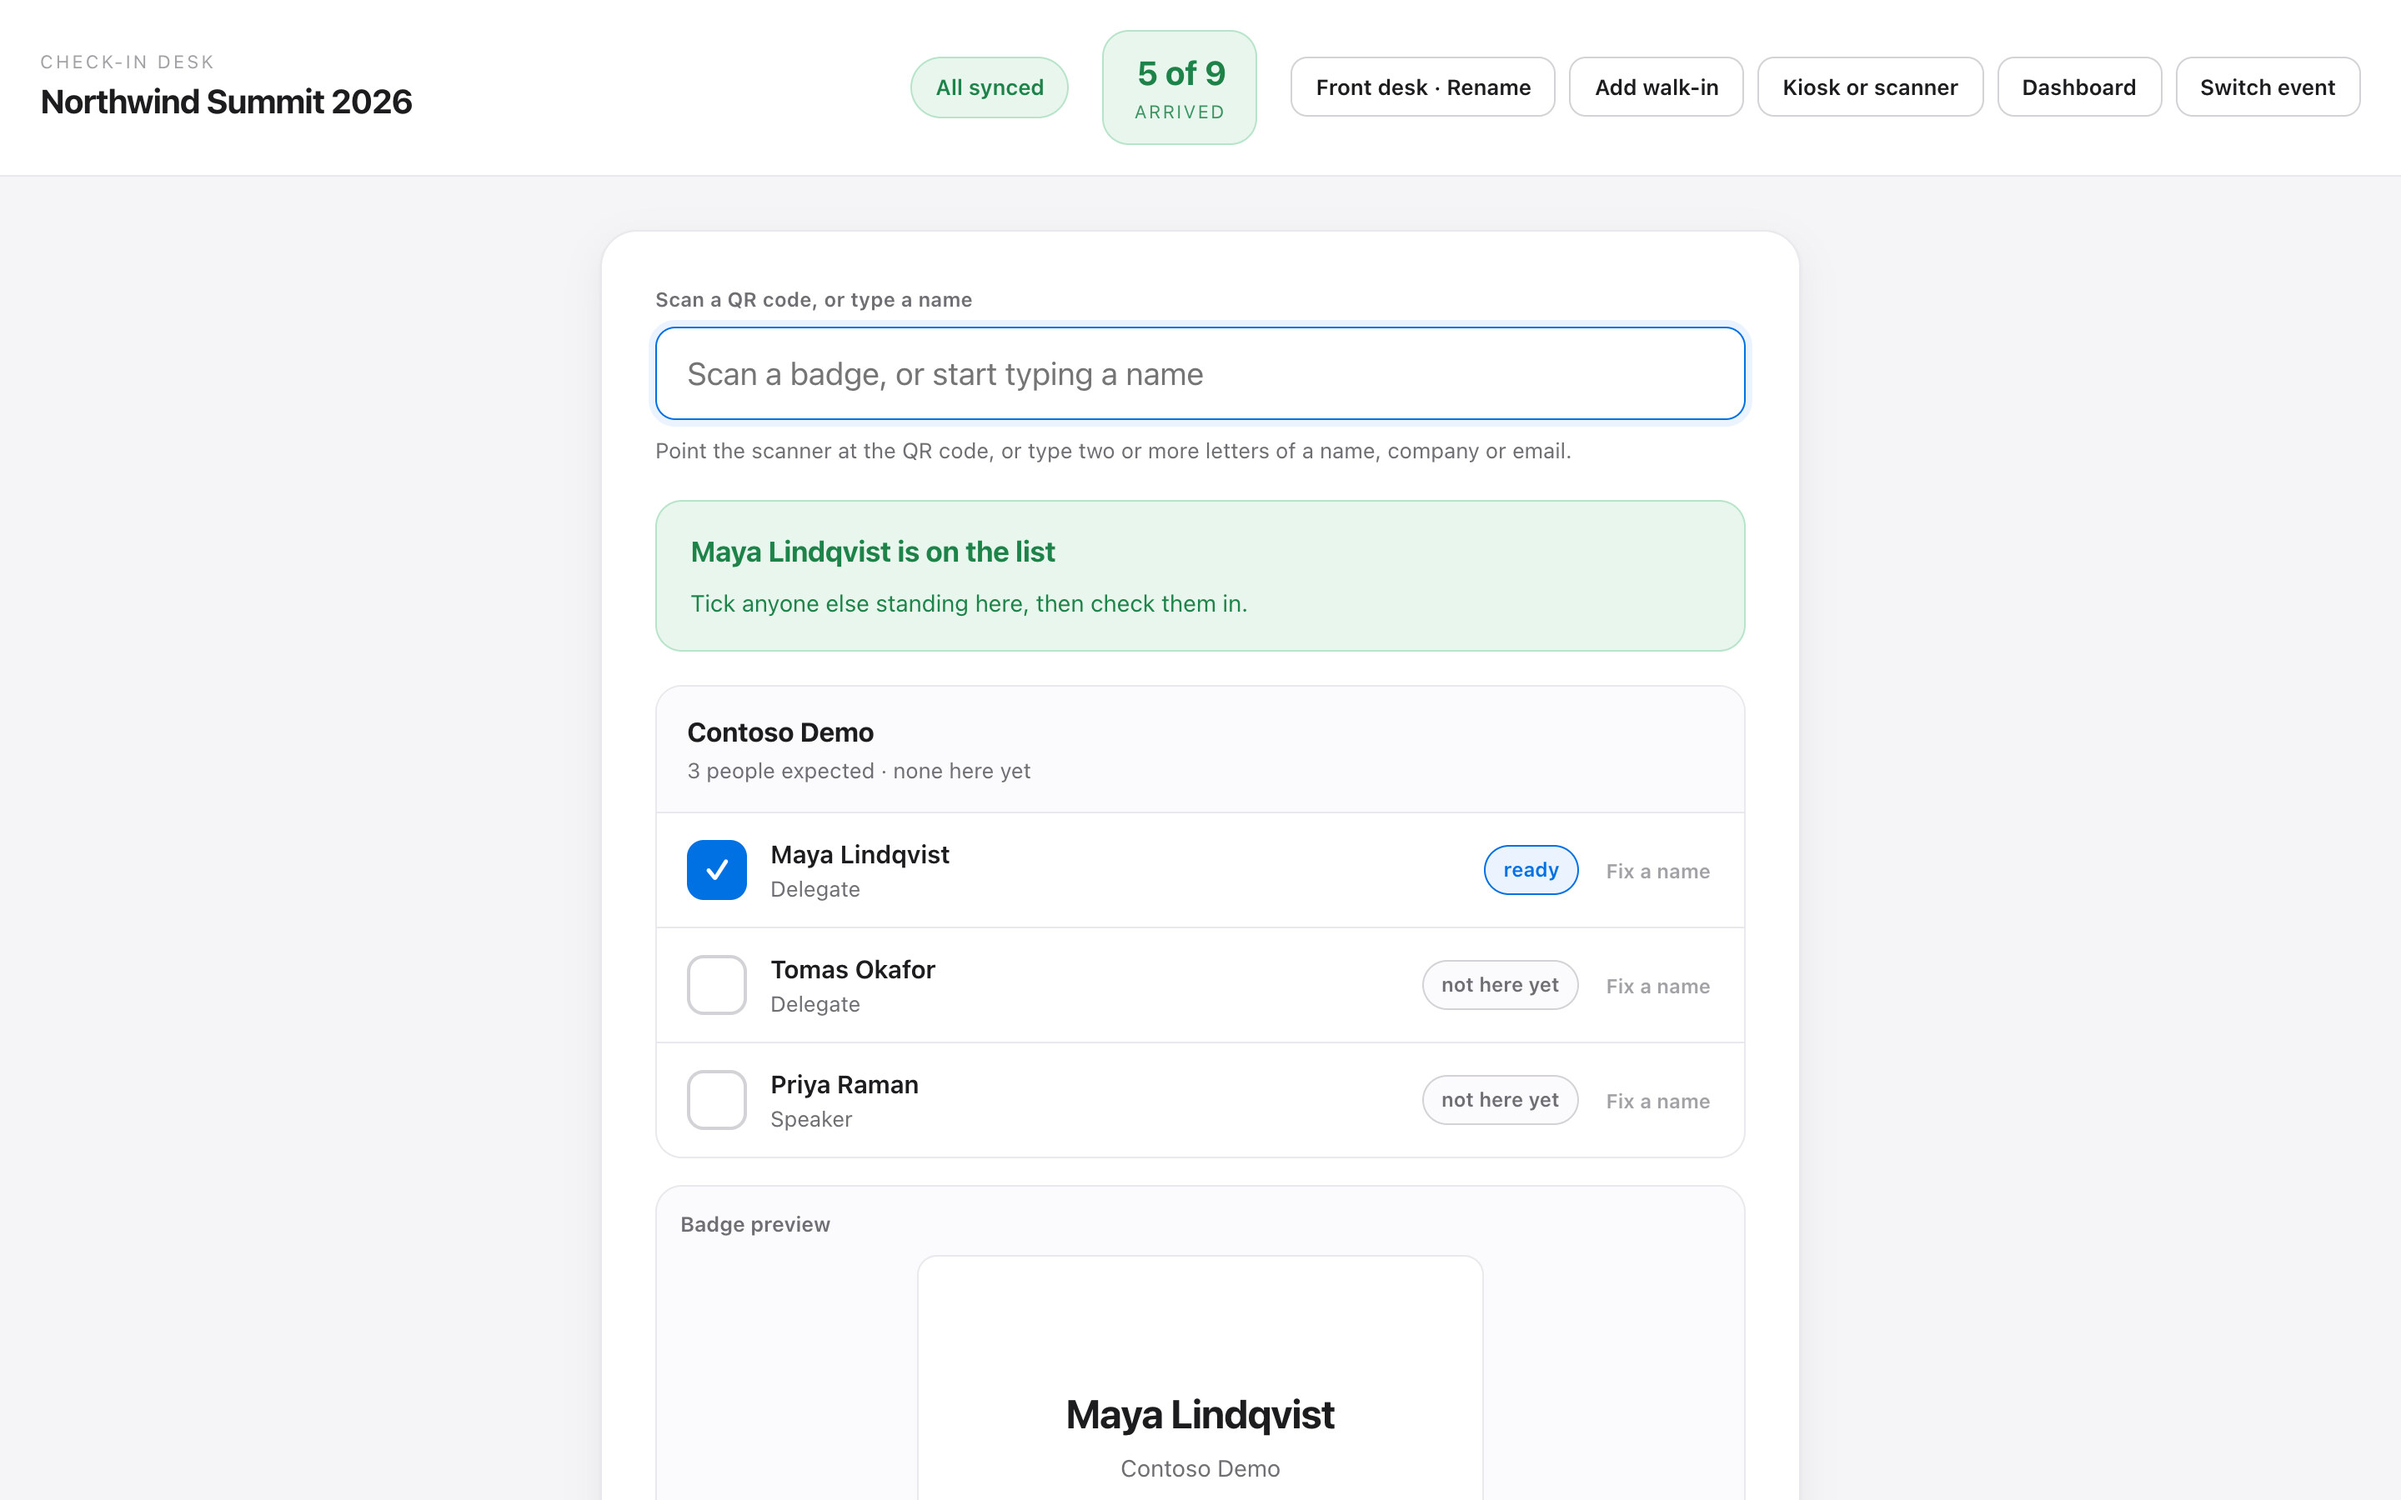
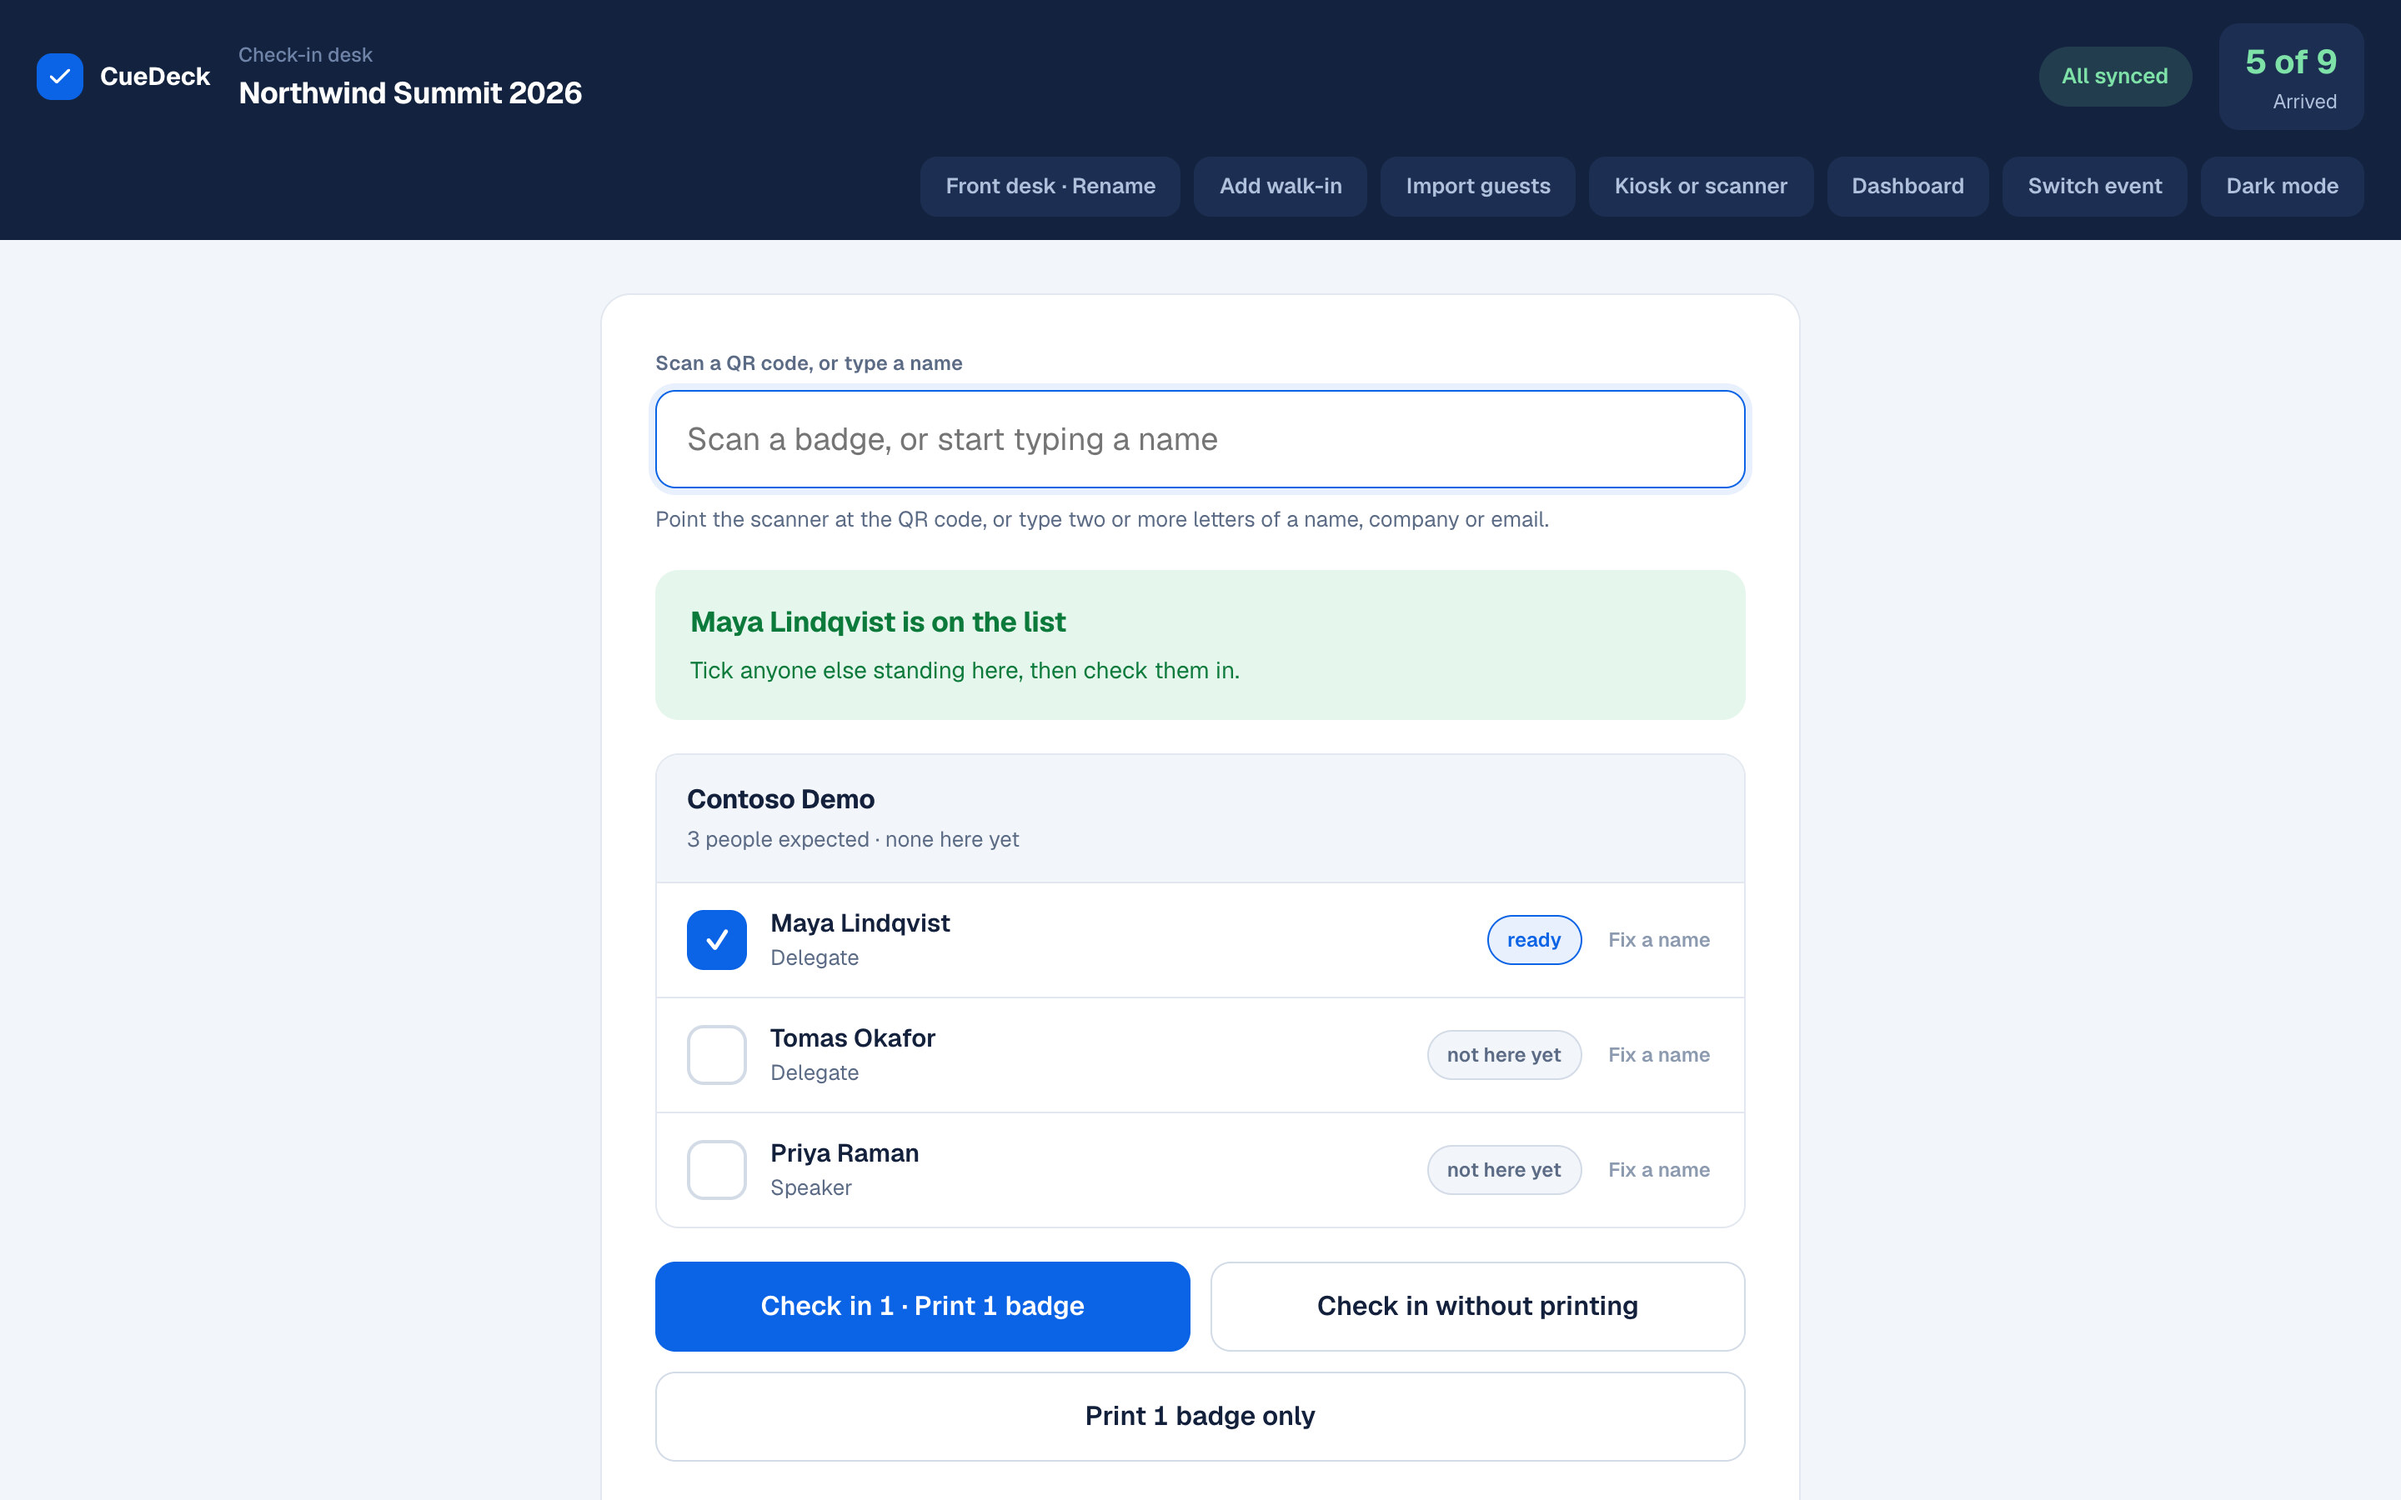
Check-in screenshots and launch cover from the redesigned app
Desk, dashboard, guest list and report retaken from the new design (fictional
Northwind Summit data, 2x, JPEG q88 4:4:4). The dashboard shot now runs to the
end of the company board, so its height is 1652 and its labels moved. The launch
post cover is rebuilt with the new desk. Door scanner page is unchanged.

diff --git a/app/solutions/check-in/page.tsx b/app/solutions/check-in/page.tsx
@@ -115,12 +115,12 @@ export default async function CheckinPage() {
           title="See the doors from anywhere"
           desc="Arrivals over time, every desk and its sync status, which companies are still missing people, and alerts the moment a VIP walks in."
           points={["Arrivals per 15 minutes and turnout by ticket type", "Company board: who is here, who is partly here, who has not arrived", "Desk health, including check-ins waiting to sync"]}
-          img={{ src: "/screenshots/checkin-dashboard-live.jpg", width: 1440, height: 1250,
+          img={{ src: "/screenshots/checkin-dashboard-live.jpg", width: 1440, height: 1652,
             alt: "Check-in dashboard with arrival totals, desk status, arrival alerts, company board and arrivals chart" }}
           device="tablet"
           labels={[
-            { dot: DOT.ok, title: "184 checked in", sub: "45% turnout", pos: { left: -18, top: "64%" } },
-            { dot: DOT.delay, title: "East entrance syncing", sub: "3 waiting", pos: { right: -20, top: "30%" } },
+            { dot: DOT.ok, title: "184 checked in", sub: "45% turnout", pos: { left: -18, top: "14%" } },
+            { dot: DOT.delay, title: "East entrance syncing", sub: "3 waiting", pos: { right: -20, top: "41%" } },
           ]}
         />
 
